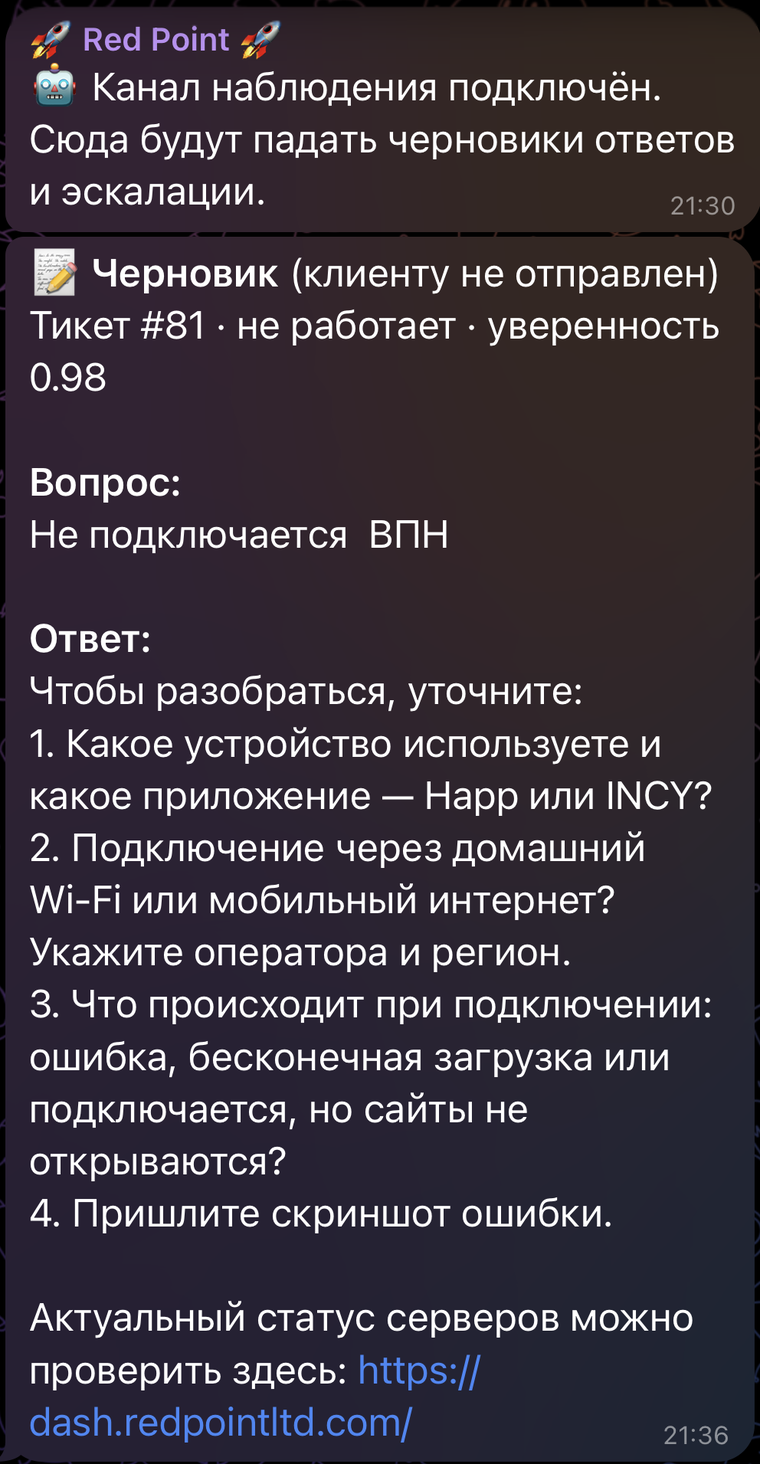
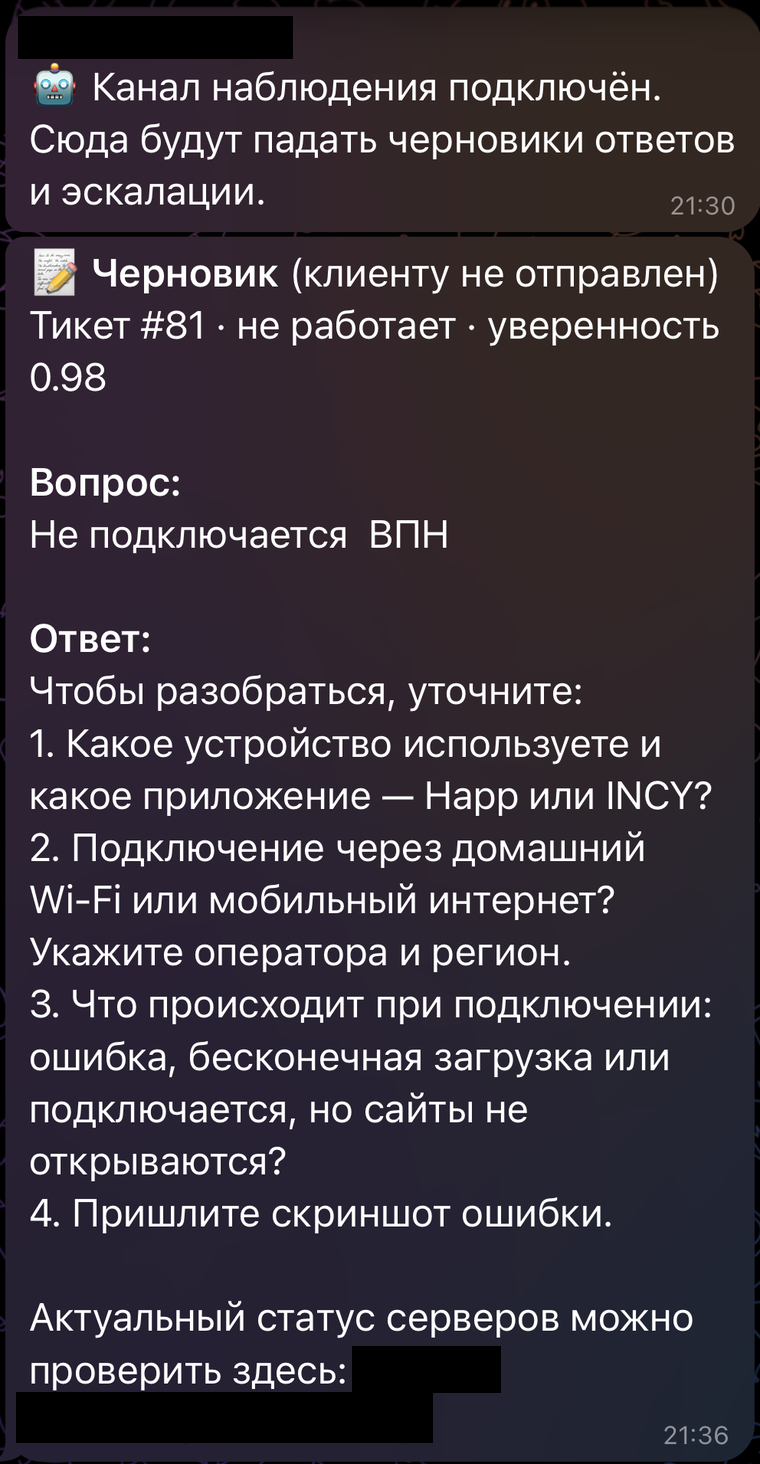
Скриншот обезличен: репозиторий не должен нести чужой бренд
Сервис ставят разные проекты, и название конкретного сервиса вместе с его
статус-страницей в общем README неуместно — закрашены. Текстом бренда в
репозитории и в истории не было.

Claude-Session: https://claude.ai/code/session_016YMtYjr7QYHEsenEZUxUjp

Changed region(s): [[0.0, 0.9221, 0.6658, 1.0], [0.0, 0.0, 0.3934, 0.0615]]

diff --git a/README.md b/README.md
@@ -87,7 +87,8 @@ docker compose up -d && docker compose logs -f
 <img src="docs/screenshots/topic.png" alt="Черновик ответа в топике наблюдения" width="420">
 
 Так выглядит теневой режим: черновик с темой, уверенностью, вопросом клиента
-и готовым ответом — клиенту при этом не ушло ничего. Остальные виды сообщений:
+и готовым ответом — клиенту при этом не ушло ничего. Название сервиса и его
+домен на снимке закрашены. Остальные виды сообщений:
 
 ```
 📝 Черновик (клиенту не отправлен)
